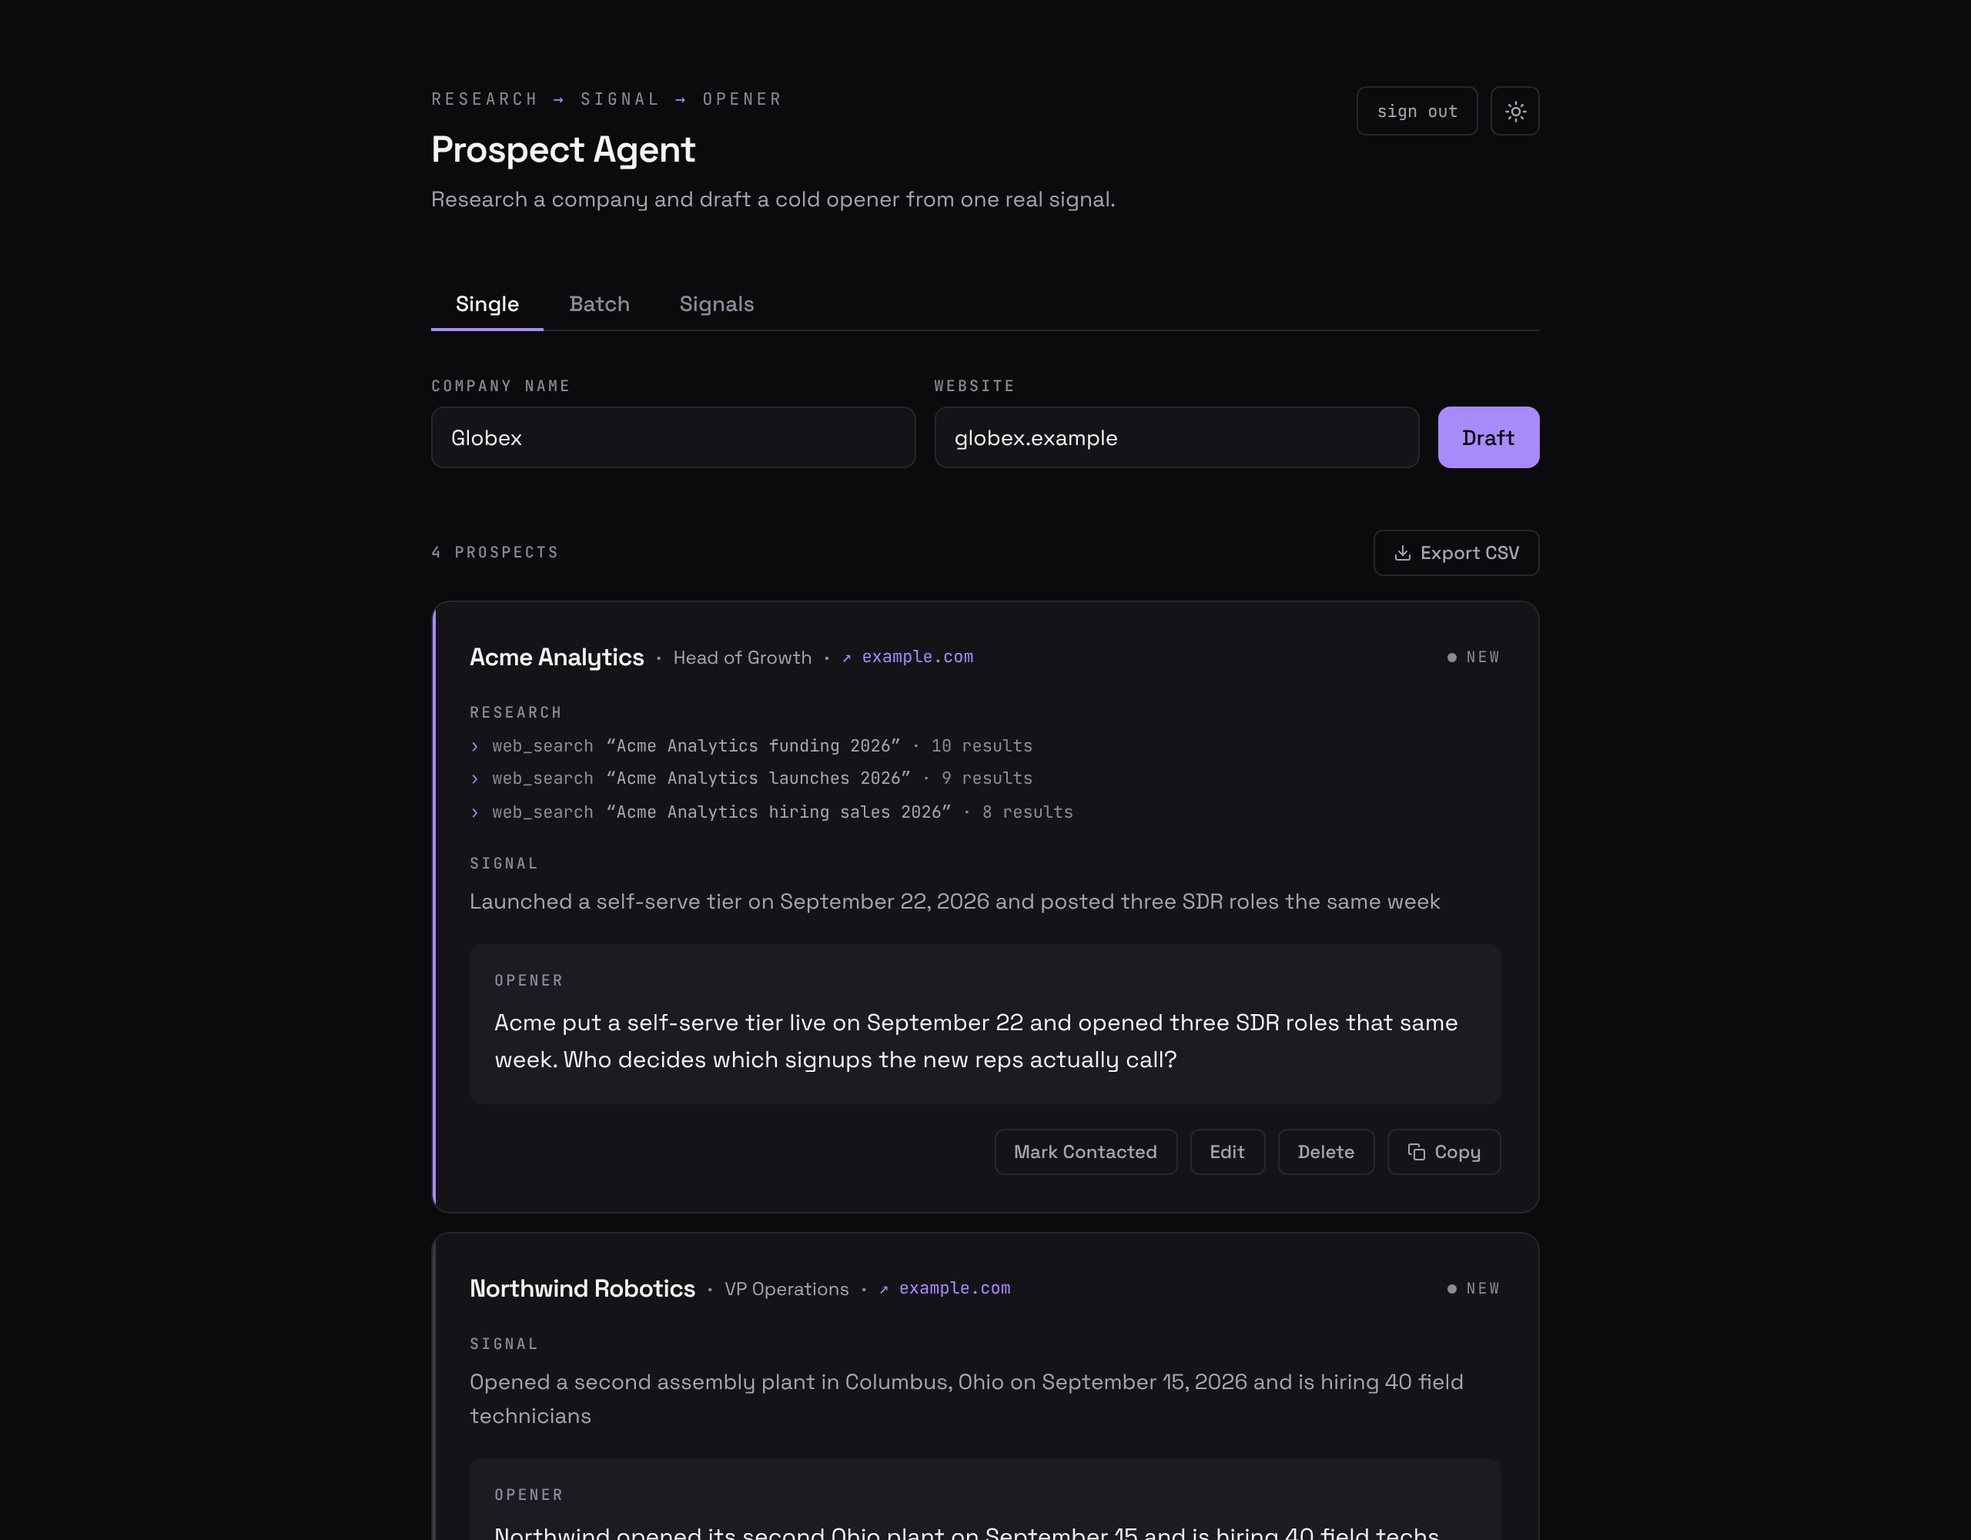
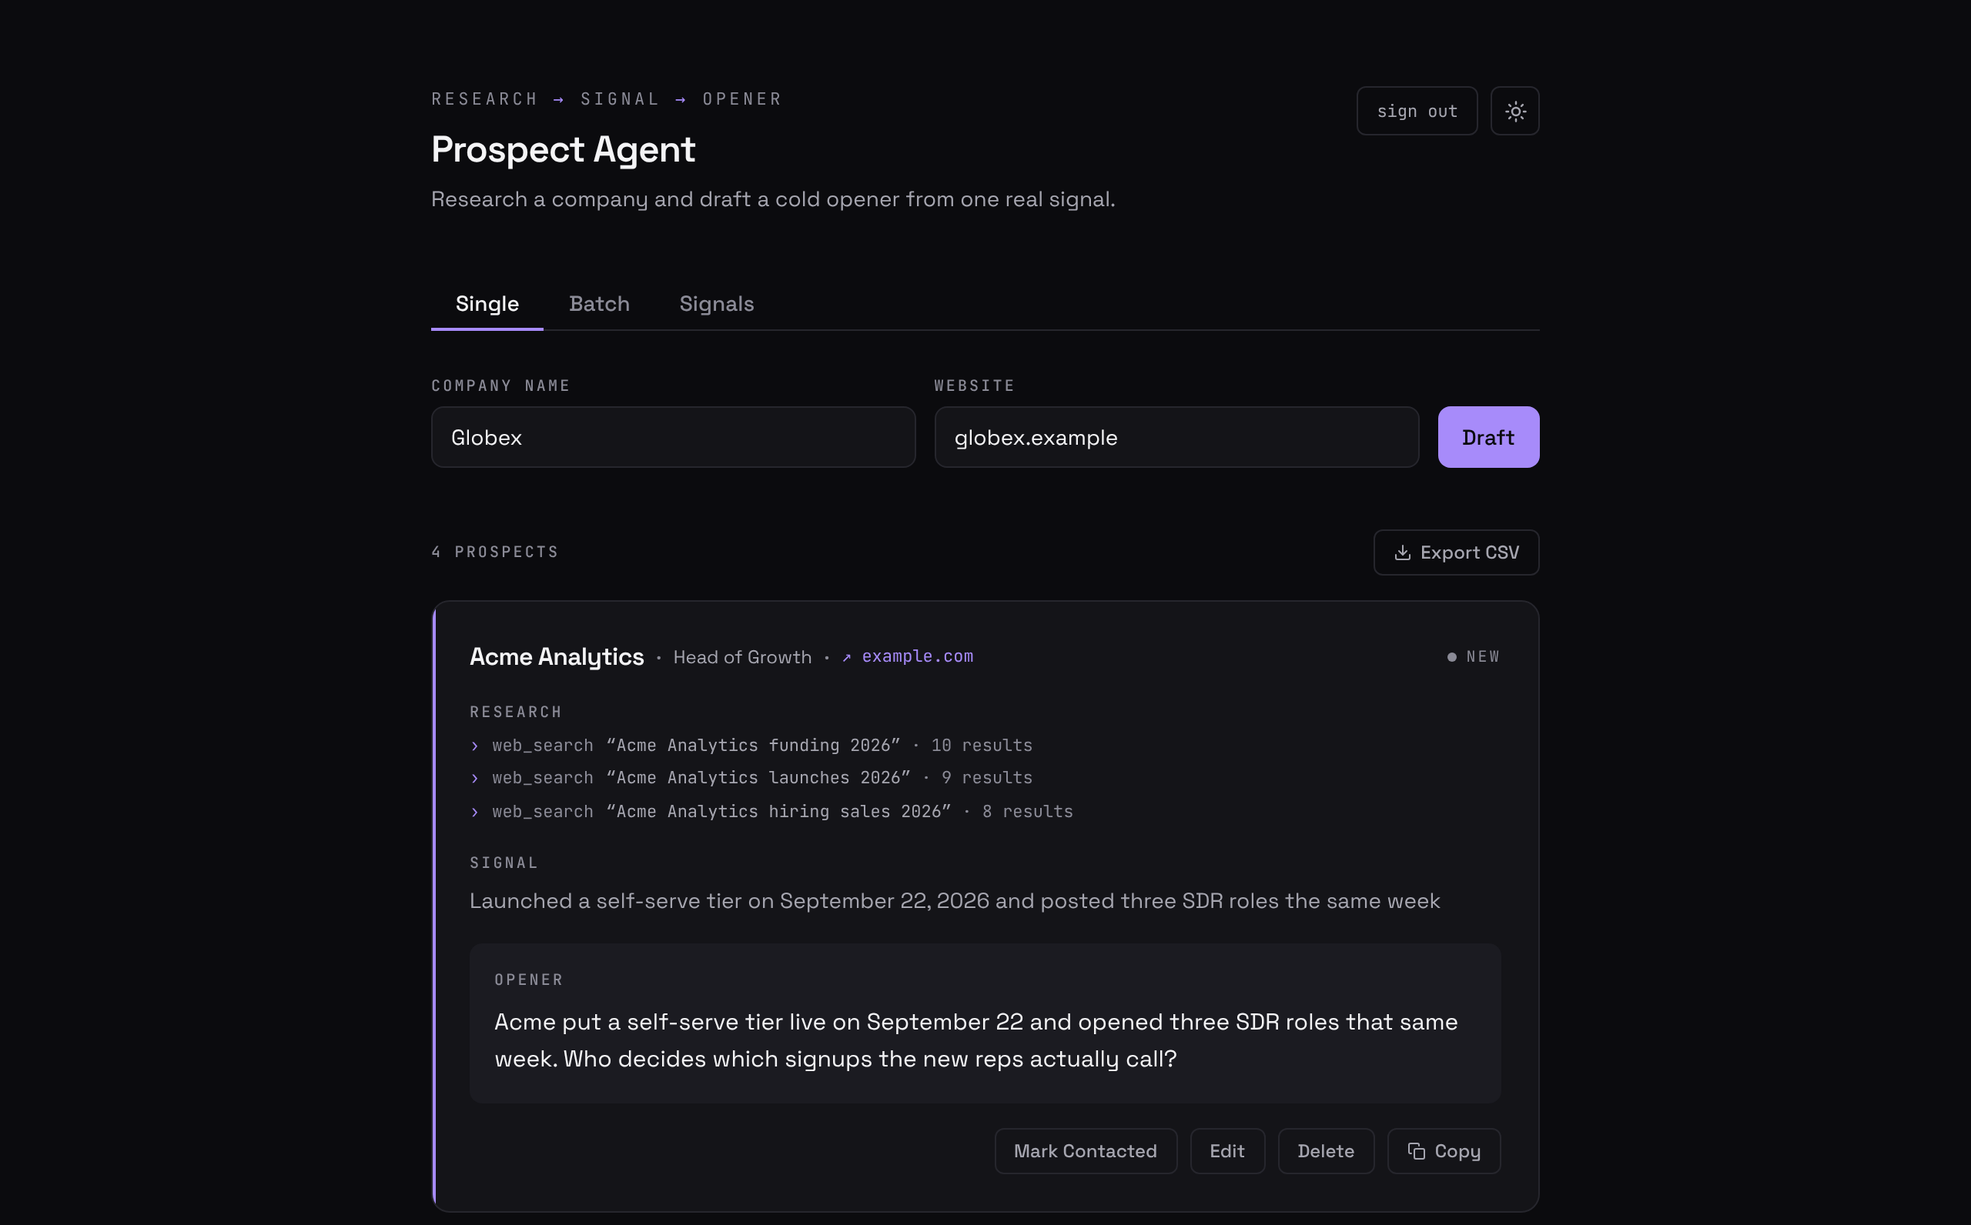
README fixes from a verification pass; fictional names; failed-count fix
A four-angle review (claims vs code, completeness vs PRs #2-#15,
rendering, the UI change) found these, now fixed:

README
- CSV export: Single/Batch exports every loaded prospect, Signals the
  ranked results; UTC date in the filename.
- CI runs on PRs and pushes to master (not every push), then builds.
- `npm run draft` prints the [research] log line before the JSON.
- Editable fields include target role; status only moves forward via
  "Mark ...".
- Signals results aren't saved; only the two research routes set
  maxDuration; the opener usually (not always) leads with the fact.
- Added: theme applied before first paint, sign-in details (names kept
  from Basic Auth, /login redirect when signed in, Secure cookie in
  production, timingSafeEqual wording), the log line's timing and raw
  list, how to approve an install script, SDK >= 0.131, the refusal
  error text, test coverage of ProspectPatchSchema and safeEqual.
- Changelog: the hostname wrap is credited to this change, not #9;
  #4's SDK bump and #5's AGENTS.md/CLAUDE.md listed.
- Troubleshooting is its own section.

Screenshots
- Example companies are the classic placeholders (Acme, Globex,
  Northwind, Contoso, Fabrikam, Tailspin); "Harbor Freight Labs" was too
  close to a real retailer.
- Draft screenshots end at the first card instead of cutting through
  the next card's text.

Code
- Signals summary: "· M failed" is counted on the same collapsed list
[…]

diff --git a/app/draft-form.tsx b/app/draft-form.tsx
@@ -183,8 +183,10 @@ function ResearchTrace({
 }
 
 function SourceLink({ href }: { href: string }) {
-  // A <wbr> after each dot lets a long hostname wrap at a dot in a narrow
-  // column ("markets." / "financialcontent.com") instead of mid-word.
+  // A <wbr> after each dot lets a long hostname wrap at its dots in a narrow
+  // column ("↗ markets." / "financialcontent." / "com"). A browser won't break
+  // between a dot and a letter on its own, so without it the hostname stays
+  // on one line and widens the column.
   const parts = sourceLabel(href).split(".");
   return (
     <a
@@ -961,14 +963,17 @@ export default function DraftForm({
                             <summary className="cursor-pointer list-none font-mono text-[11px] text-subtle transition-colors duration-200 hover:text-fg [&::-webkit-details-marker]:hidden">
                               <span className="inline-block text-accent transition-transform duration-200 group-open:rotate-90">›</span>{" "}
                               {(() => {
-                                const n = groupRepeatedSearches(result.searches).length;
-                                return `${n} web ${n === 1 ? "search" : "searches"}`;
+                                // Count both numbers on the grouped list, so a
+                                // failed query run twice reads "1 search · 1 failed".
+                                const grouped = groupRepeatedSearches(result.searches);
+                                const failed = grouped.filter((s) => s.error).length;
+                                return (
+                                  <>
+                                    {`${grouped.length} web ${grouped.length === 1 ? "search" : "searches"}`}
+                                    {failed > 0 && <span className="text-danger"> · {failed} failed</span>}
+                                  </>
+                                );
                               })()}
-                              {result.searches.some((s) => s.error) && (
-                                <span className="text-danger">
-                                  {" "}· {result.searches.filter((s) => s.error).length} failed
-                                </span>
-                              )}
                             </summary>
                             <ResearchTrace searches={result.searches} compact className="mt-1.5 pl-3" />
                           </details>

diff --git a/lib/research.ts b/lib/research.ts
@@ -31,10 +31,11 @@ const MAX_SEARCHES = 5;
 // The basic web search variant, chosen over web_search_20260209 (Oct 2026).
 // 20260209 filters results through its own code execution before the model
 // sees them, and on UiPath that filter hid recent news its own searches had
-// returned (the model reported "no results" for searches with 9-10 hits). The
-// basic variant hands the model the results directly: in side-by-side Batch
-// runs it found the September news every time, ran no repeated queries, and
-// finished in under 20s instead of about 50s. To compare again, set type to
+// returned (the model said "only one search returned usable results" for
+// searches with 9-10 hits each). The basic variant hands the model the
+// results directly: in side-by-side Batch runs it found the September news
+// every time, ran no repeated queries, and finished in under 20s instead of
+// about 50s. To compare again, set type to
 // "web_search_20260209"; the trace then marks its searches "via code".
 const WEB_SEARCH_TOOL: Anthropic.Beta.BetaWebSearchTool20250305 | Anthropic.Beta.BetaWebSearchTool20260209 = {
   type: "web_search_20250305",

diff --git a/README.md b/README.md
@@ -21,24 +21,32 @@ Features:
   own loading/retry state and a live elapsed-seconds counter while the
   research runs.
 - **Signals** — rank a list of companies by signal strength, no opener.
+  Results aren't saved: they stay on the page until a reload or the next
+  run, so export them as CSV to keep them.
 - **Research trace** — each fresh draft or signal shows the web searches
   the agent actually ran and how each came back: the result count, or the
   error code in red. A query run twice in a row shows once with "×2". In
-  the signals table the trace is folded into a "N web searches · M failed"
-  line you can expand. The trace isn't stored; saved prospects show their
-  source link instead.
-- **Source links** — shown as the hostname (`techcrunch.com`), and only
-  when the URL is `http(s)`.
-- **CSV export** — download batch/signal results as `prospects-<date>.csv`.
-- **Saved prospects** — every draft is stored in Postgres; the list loads
-  25 at a time ("load more", cursor-paginated) and each prospect can be
-  edited (status `new` / `contacted` / `replied`, company, website,
-  signal, source, opener) or deleted.
+  the signals table the trace is folded into an expandable "N web
+  searches" line, with "· M failed" in red when any search failed. The
+  trace isn't stored, so after a reload a prospect shows its signal and
+  source link without it.
+- **Source links** — shown as the hostname (`techcrunch.com`), which wraps
+  at its dots in a narrow column. See [Notes](#notes) for when a source
+  gets a link.
+- **CSV export** — in Single/Batch, every prospect loaded in the list so
+  far; in Signals, the ranked results. Saved as `prospects-<YYYY-MM-DD>.csv`
+  (UTC date).
+- **Saved prospects** — every draft is stored in Postgres. The list loads
+  25 at a time ("load more", cursor-paginated). Each prospect can be
+  edited (company, website, target role, signal, source, opener), moved
+  from `new` to `contacted` to `replied` with its "Mark …" button, or
+  deleted.
 - **Sign-in** — a sign-in page gates the whole app (UI + API) once
   credentials are set, with a "sign out" button in the header. See
   [Sign-in](#sign-in).
-- **Light / dark theme** — dark by default; the toggle in the header
-  remembers your choice in `localStorage`.
+- **Light / dark theme** — dark by default. The toggle (in the header and
+  on the sign-in page) saves your choice in `localStorage`, and an inline
+  script applies it before first paint, so there's no flash.
 
 ## How the research works
 
@@ -82,7 +90,8 @@ How the agent picks the signal (both modes):
 How the opener is written (draft mode; the full rules are the `SYSTEM`
 prompt in `lib/research.ts`):
 
-- Opens with the fact, stated plainly. No "I saw", no flattery, no pitch,
+- States the fact plainly, usually up front (the structure varies, so
+  sometimes the question comes first). No "I saw", no flattery, no pitch,
   no meeting ask. Ends on one specific question about what might be
   breaking.
 - **Absolute dates** ("on September 21"), never relative ones ("last
@@ -101,7 +110,7 @@ prompt in `lib/research.ts`):
 | Route | Method | What it does |
 |---|---|---|
 | `/api/draft` | POST | Research a company and draft an opener, then save it. The response also carries `searches`: each web query run, with its result count or error code |
-| `/api/signal` | POST | Research and score a company's signal, no opener; includes `searches` (same shape) |
+| `/api/signal` | POST | Research and score a company's signal, no opener, not saved; includes `searches` (same shape) |
 | `/api/prospects` | GET | List saved prospects (`?cursor=` for the next page) |
 | `/api/prospects/[id]` | PATCH | Update any subset of a prospect's fields |
 | `/api/prospects/[id]` | DELETE | Delete a prospect |
@@ -114,8 +123,10 @@ prompt in `lib/research.ts`):
   CSS-variable tokens in `app/globals.css`, one set per theme)
 - Space Grotesk + JetBrains Mono via `next/font`
 - Prisma + PostgreSQL (Supabase)
-- Anthropic SDK (`claude-sonnet-5-5` on the beta Messages endpoint, web
-  search tool `web_search_20250305`)
+- Anthropic SDK ≥ 0.131 (`claude-sonnet-5-5` on the beta Messages
+  endpoint with the `server-side-fallback-2026-07-01` beta, web search
+  tool `web_search_20250305`). 0.131 is the first version that types the
+  fallback options.
 - Zod for validating the model's JSON output
 
 ## Setup
@@ -167,7 +178,7 @@ prompt in `lib/research.ts`):
 | `npm run typecheck` | `tsc --noEmit` |
 | `npm run test` | Run the unit test suite once (Vitest) |
 | `npm run test:watch` | Run the test suite in watch mode |
-| `npm run draft -- "Company" "website.com"` | Run the research+draft engine standalone from the terminal, no UI/DB. Prints the JSON result to stdout. |
+| `npm run draft -- "Company" "website.com"` | Run the research+draft engine standalone from the terminal, no UI/DB. Prints the `[research]` log line, then the JSON result (including `searches`), to stdout. |
 | `npm run prisma:generate` | Regenerate the Prisma client after a schema change |
 | `npm run prisma:migrate` | Run Prisma migrations against `.env.local` |
 | `npm run prisma:push` | Push the schema without creating a migration (quick local iteration) |
@@ -182,13 +193,16 @@ silent bugs:
   error code and "via code" flag, and the refusal fallback. Mocked against
   the Anthropic SDK, so no API key or network call is needed.
 - `lib/searchTrace.test.ts` — collapsing back-to-back repeated searches.
-- `lib/prospects.test.ts` — cursor pagination.
+- `lib/prospects.test.ts` — cursor pagination and the PATCH body schema
+  (`ProspectPatchSchema`).
 - `lib/parseLines.test.ts` — batch/signal line parsing and dedup.
 - `lib/url.test.ts` — the `signalSource` link-safety check and hostname
   label.
-- `lib/session.test.ts` — sign-in session tokens.
+- `lib/session.test.ts` — sign-in session tokens (expiry, tampering, a
+  changed password) and the `safeEqual` compare.
 
-They run in CI on every push and PR, after lint and typecheck.
+CI runs them on every pull request and every push to `master`, after lint
+and typecheck and before `npm run build`.
 
 Out of scope for now: the API route handlers themselves (`app/api/**`)
 aren't covered by automated tests — they were verified manually against a
@@ -200,17 +214,20 @@ tests would need a test database wired into CI.
 <img src="docs/screenshots/login-dark.png" alt="Sign-in page" width="60%" />
 
 - Turned on by setting both `APP_BASIC_AUTH_USER` and
-  `APP_BASIC_AUTH_PASSWORD`. With either one unset, the app is open and
-  `/login` redirects home.
+  `APP_BASIC_AUTH_PASSWORD` (the names are kept from the browser Basic
+  Auth prompt this page replaced); no other Vercel config is needed. With
+  either one unset, the app is open and `/login` redirects home.
 - Enforced by `proxy.ts` (Next.js 16's replacement for `middleware.ts`).
   Signed-out page requests redirect to `/login`; API requests get a 401.
+  Opening `/login` while signed in redirects home.
 - `/login` is a plain HTML form that posts to `/api/login`, so it works
-  without JavaScript. Both fields are checked in constant time, and a
+  without JavaScript. Both fields are always compared (with
+  `timingSafeEqual`, so timing doesn't show which one was wrong), and a
   wrong attempt waits 400ms before redirecting back with an error.
-- A successful sign-in sets an HttpOnly, SameSite=Lax session cookie: a
-  stateless HMAC-signed token valid for 30 days (`lib/session.ts`). The
-  signing key comes from the credentials, so changing either var signs
-  everyone out.
+- A successful sign-in sets an HttpOnly, SameSite=Lax session cookie
+  (Secure in production): a stateless HMAC-signed token valid for 30 days
+  (`lib/session.ts`). The signing key comes from the credentials, so
+  changing either var signs everyone out.
 - To open the app again, remove both vars and redeploy.
 
 ## Deploying (Vercel)
@@ -228,17 +245,22 @@ tests would need a test database wired into CI.
 - `package.json` has an `allowScripts` list approving the install scripts
   of `@prisma/client`, `@prisma/engines`, `prisma`, `esbuild` and
   `unrs-resolver`. npm 11 only warns about unapproved scripts; npm 12
-  skips them. Check `npm install-scripts ls` (npm 12) after adding a
-  dependency that has an install script.
+  skips them. After adding a dependency that has an install script, check
+  `npm install-scripts ls` and approve it by name with
+  `npm install-scripts approve --no-allow-scripts-pin <pkg>` (npm 12), so
+  later version bumps stay covered.
 - Each research call logs one line to the server logs (Vercel → Logs):
   `[research] draft "Acme" model=… stop=… web_search_requests=… searches:
   "q" 8 results | "q2" error:too_many_requests`. A failed web search is a
   normal 200 with an error code in place of results, so this (and the
-  trace in the UI) is where failures show up.
-- A research call can run up to 5 web searches per company; the API
-  routes set `maxDuration = 60` to give it room.
+  trace in the UI) is where failures show up. The line is written before
+  the reply is checked or parsed, so refused and failed runs are logged
+  too, and it lists every search as run (repeats aren't collapsed).
+- A research call can run up to 5 web searches per company; the
+  `/api/draft` and `/api/signal` routes set `maxDuration = 60` to give it
+  room.
 
-### Troubleshooting
+## Troubleshooting
 
 - **"This page couldn't load" / a 500 on every page.** The home page
   reads the database on every load, so this usually means the database is
@@ -256,8 +278,10 @@ tests would need a test database wired into CI.
   refusal fallback (`fallbacks: "default"`): if Sonnet 5.5's safety
   classifiers decline a company, the API retries on Anthropic's
   recommended substitute model in the same call. Only some refusal
-  categories are retried, so a decline can still surface as an error.
-  Server-side fallback is Claude API only (not Bedrock/Vertex/Foundry).
+  categories are retried, so a decline can still come back; it shows as
+  "The model declined to research this company." rather than a JSON parse
+  error. Server-side fallback is Claude API only (not
+  Bedrock/Vertex/Foundry).
 - The `Prospect` table is intentionally a single flat table (see the
   comment in `prisma/schema.prisma`) — resist normalizing it for v1.
 - `signalSource` is whatever URL the model returns from its research; it's
@@ -274,15 +298,14 @@ tests would need a test database wired into CI.
 - **Model:** research moved to `claude-sonnet-5-5` with explicit effort
   and room for thinking, and a refusal now shows its own error
   ([#3](https://github.com/RedOctober7/prospect-agent/pull/3)). Added
-  the server-side refusal fallback
-  ([#4](https://github.com/RedOctober7/prospect-agent/pull/4)).
+  the server-side refusal fallback, bumping `@anthropic-ai/sdk` 0.104 →
+  0.131 ([#4](https://github.com/RedOctober7/prospect-agent/pull/4)).
 - **UI:** light/dark theme with WCAG AA contrast, new fonts, the research
   trace, hostname source links, the elapsed counter, a better mobile
-  layout, and README screenshots
-  ([#5](https://github.com/RedOctober7/prospect-agent/pull/5)). Long target
-  roles wrap in the signals table
-  ([#9](https://github.com/RedOctober7/prospect-agent/pull/9)), and so do
-  long source hostnames.
+  layout, README screenshots, and the `AGENTS.md`/`CLAUDE.md` files
+  `next dev` writes ([#5](https://github.com/RedOctober7/prospect-agent/pull/5)).
+  Long target roles wrap in the signals table
+  ([#9](https://github.com/RedOctober7/prospect-agent/pull/9)).
 - **Deploy fixes:** `prisma generate` runs in the build, which fixed the
   500 on Vercel ([#6](https://github.com/RedOctober7/prospect-agent/pull/6)).
   Install scripts are approved via `allowScripts` for npm 12
@@ -307,6 +330,9 @@ tests would need a test database wired into CI.
   - Openers no longer tell the reader what their own job has become
     ([#15](https://github.com/RedOctober7/prospect-agent/pull/15)).
 - **Docs:** README brought up to date
-  ([#2](https://github.com/RedOctober7/prospect-agent/pull/2)), and again
-  in this update: how the research works, sign-in, troubleshooting, new
-  screenshots.
+  ([#2](https://github.com/RedOctober7/prospect-agent/pull/2)).
+- **Docs + layout:** README rewritten to cover all of the above (how the
+  research works, sign-in, troubleshooting, new screenshots). In the
+  signals table, long source hostnames now wrap at a dot instead of
+  pushing the table past the page width, and the "· M failed" count
+  matches the collapsed search list.
